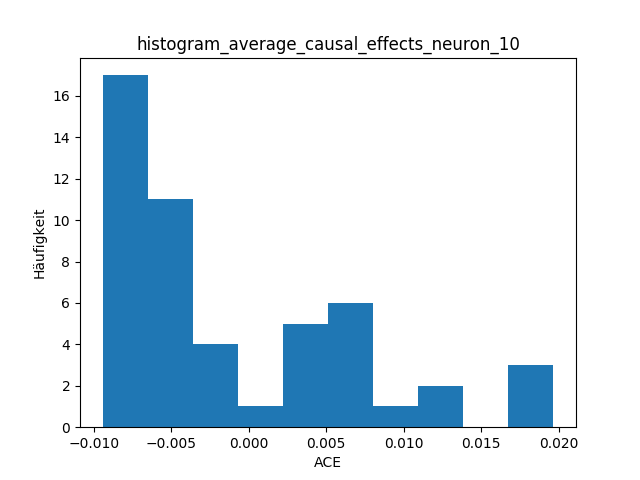
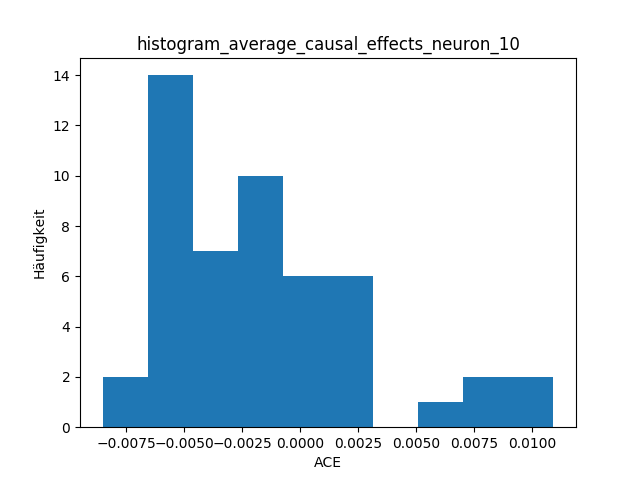
printing error done

diff --git a/Project/causal.py b/Project/causal.py
@@ -19,7 +19,7 @@ class causality(object):
         #print(input_sample.shape)
         x_train_t =torch.from_numpy(input_sample).clone()
         for counter,layer in enumerate(self.neural_network.net):
-            if counter%2==0 and counter<len(self.neural_network.net):
+            if counter%2==0 and counter<len(self.neural_network.net)-1:
                 #print(counter)
                 self.neural_network.net.eval()
                 new_nn=self.neural_network.net[counter:len(self.neural_network.net)]
@@ -32,13 +32,14 @@ class causality(object):
                 #shapes are wrong############################
                 #print(self.new_inputs.detach().numpy().shape)
 
-                input_samples_ACE=self.ACE(covariance,mean,new_nn)
                 print("nn generating input")
                 print(self.neural_network.net[0:counter])
                 print("sliced NN")
                 print(new_nn)
+                input_samples_ACE=self.ACE(covariance,mean,new_nn)
 
-                self.plotting_ACE(input_samples_ACE)
+
+                #self.plotting_ACE(input_samples_ACE)
                 #print("self.new_inputs shape")
                 #print(self.new_inputs.detach().numpy().shape)
                 #print(mean)
@@ -63,7 +64,7 @@ class causality(object):
 
                 output=neural_net(input_tensor) # torch.from_numpy(mean_vector)
 
-                output = torch.nn.functional.sigmoid(output)
+                #output = torch.nn.functional.sigmoid(output)
                 #output = torch.nn.functional.softmax(output)
 
                 val = output.data.view(1).cpu().numpy()[0]
